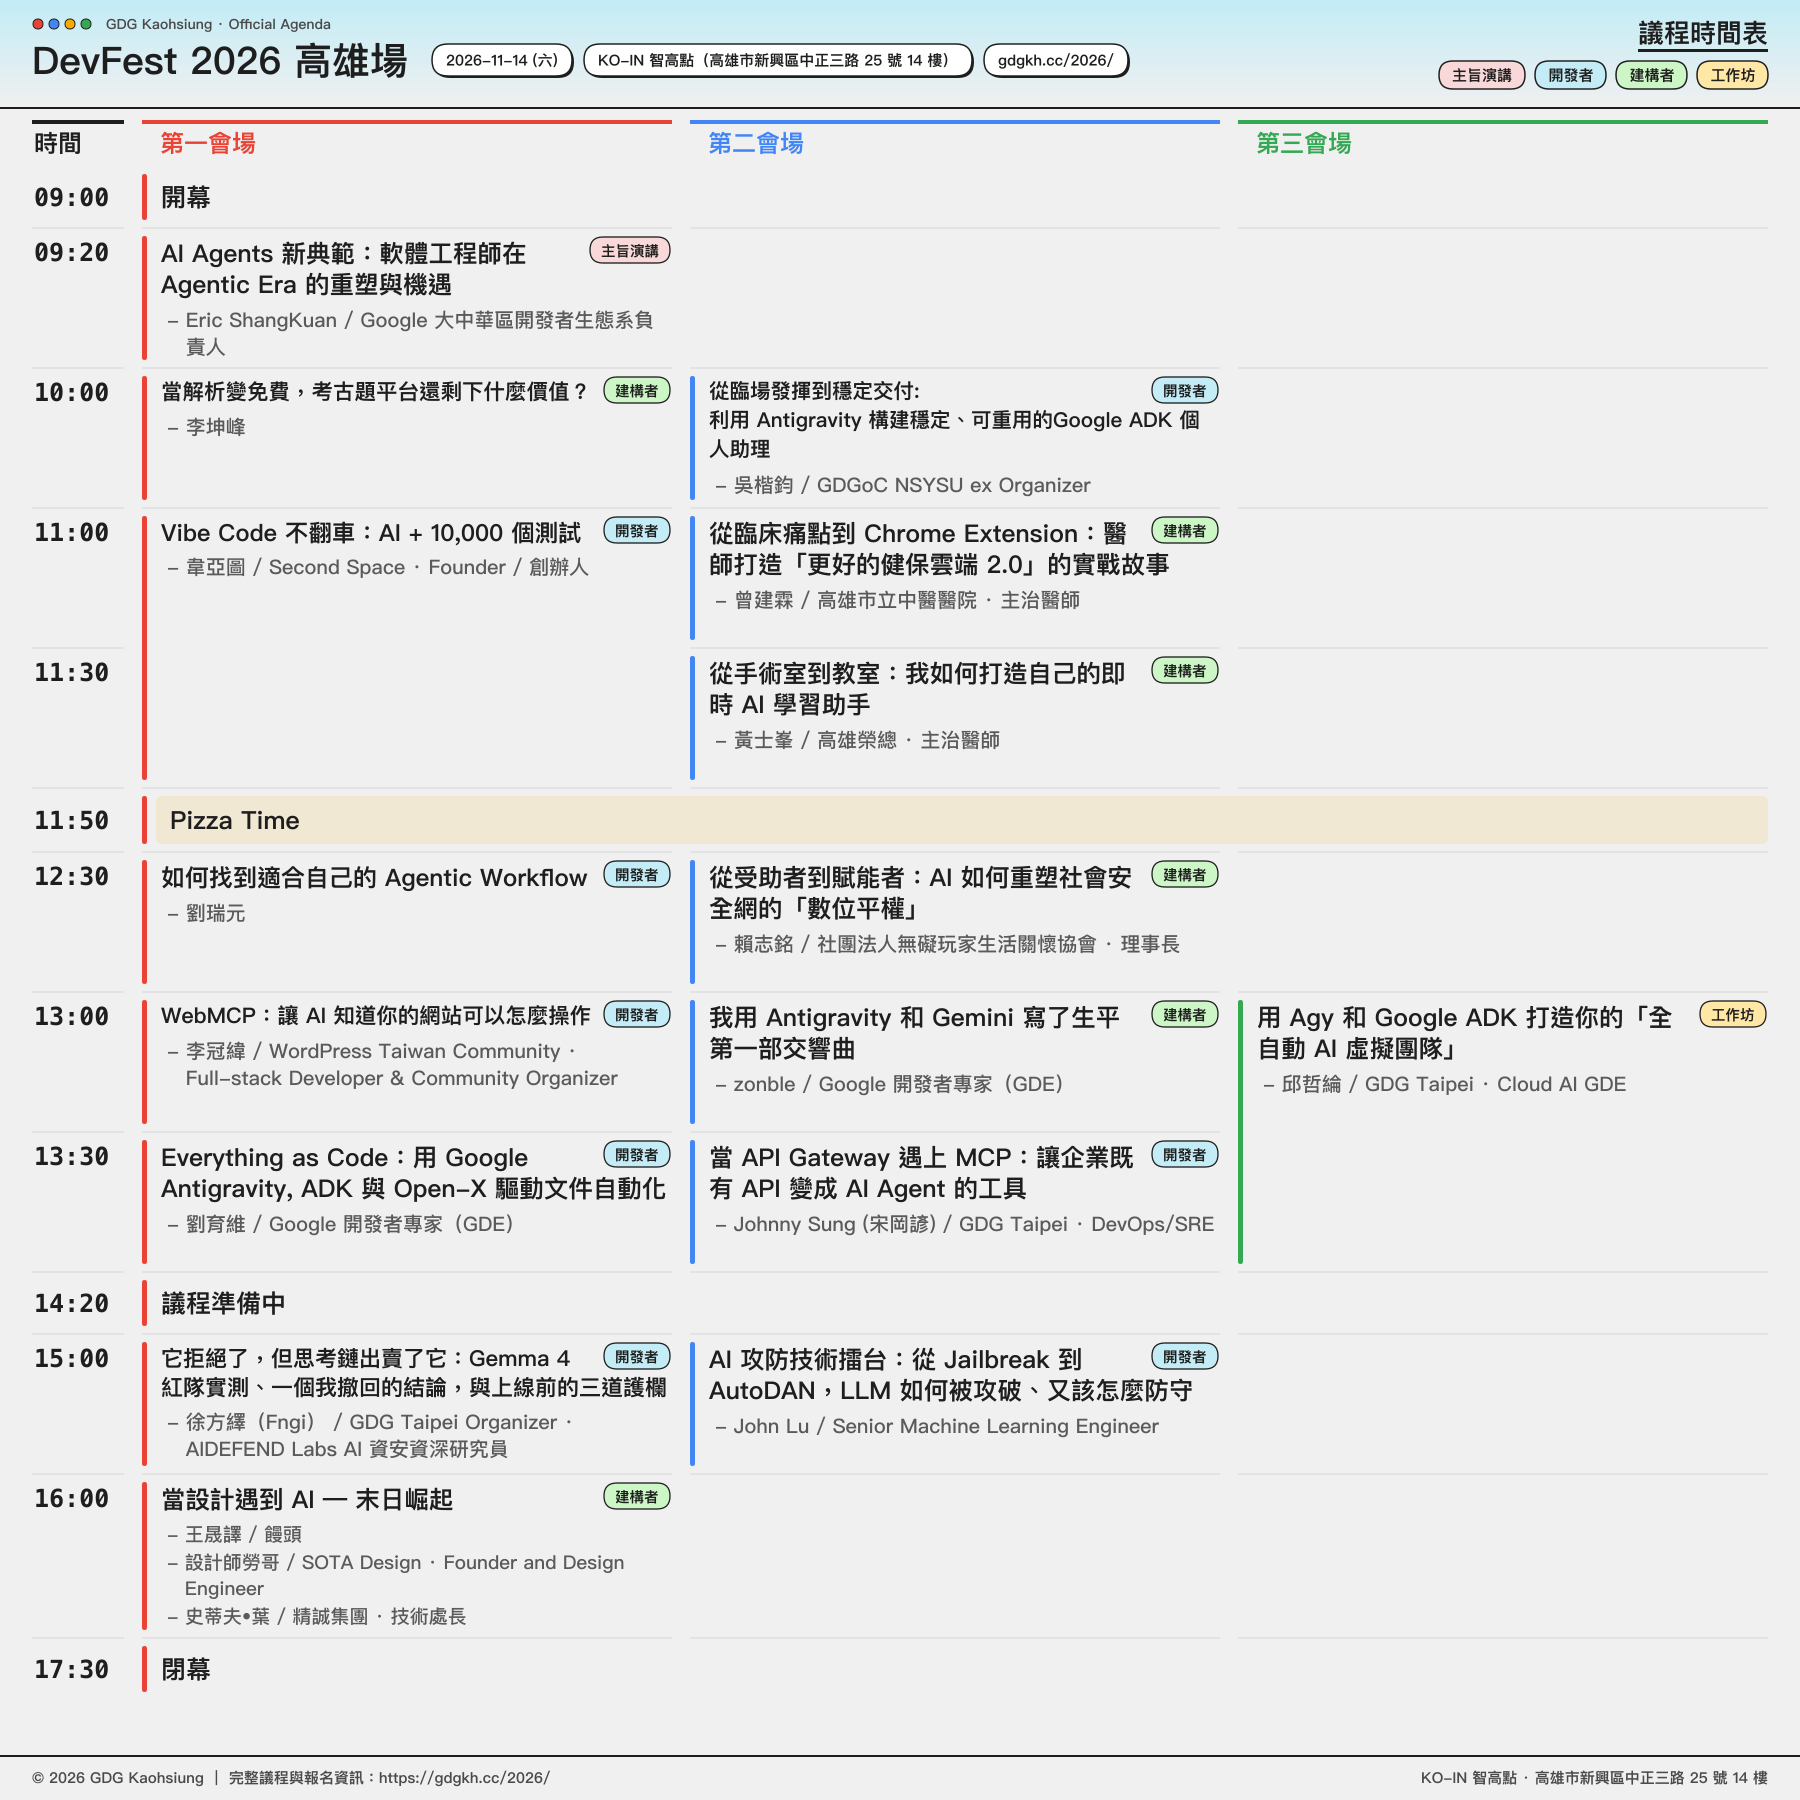
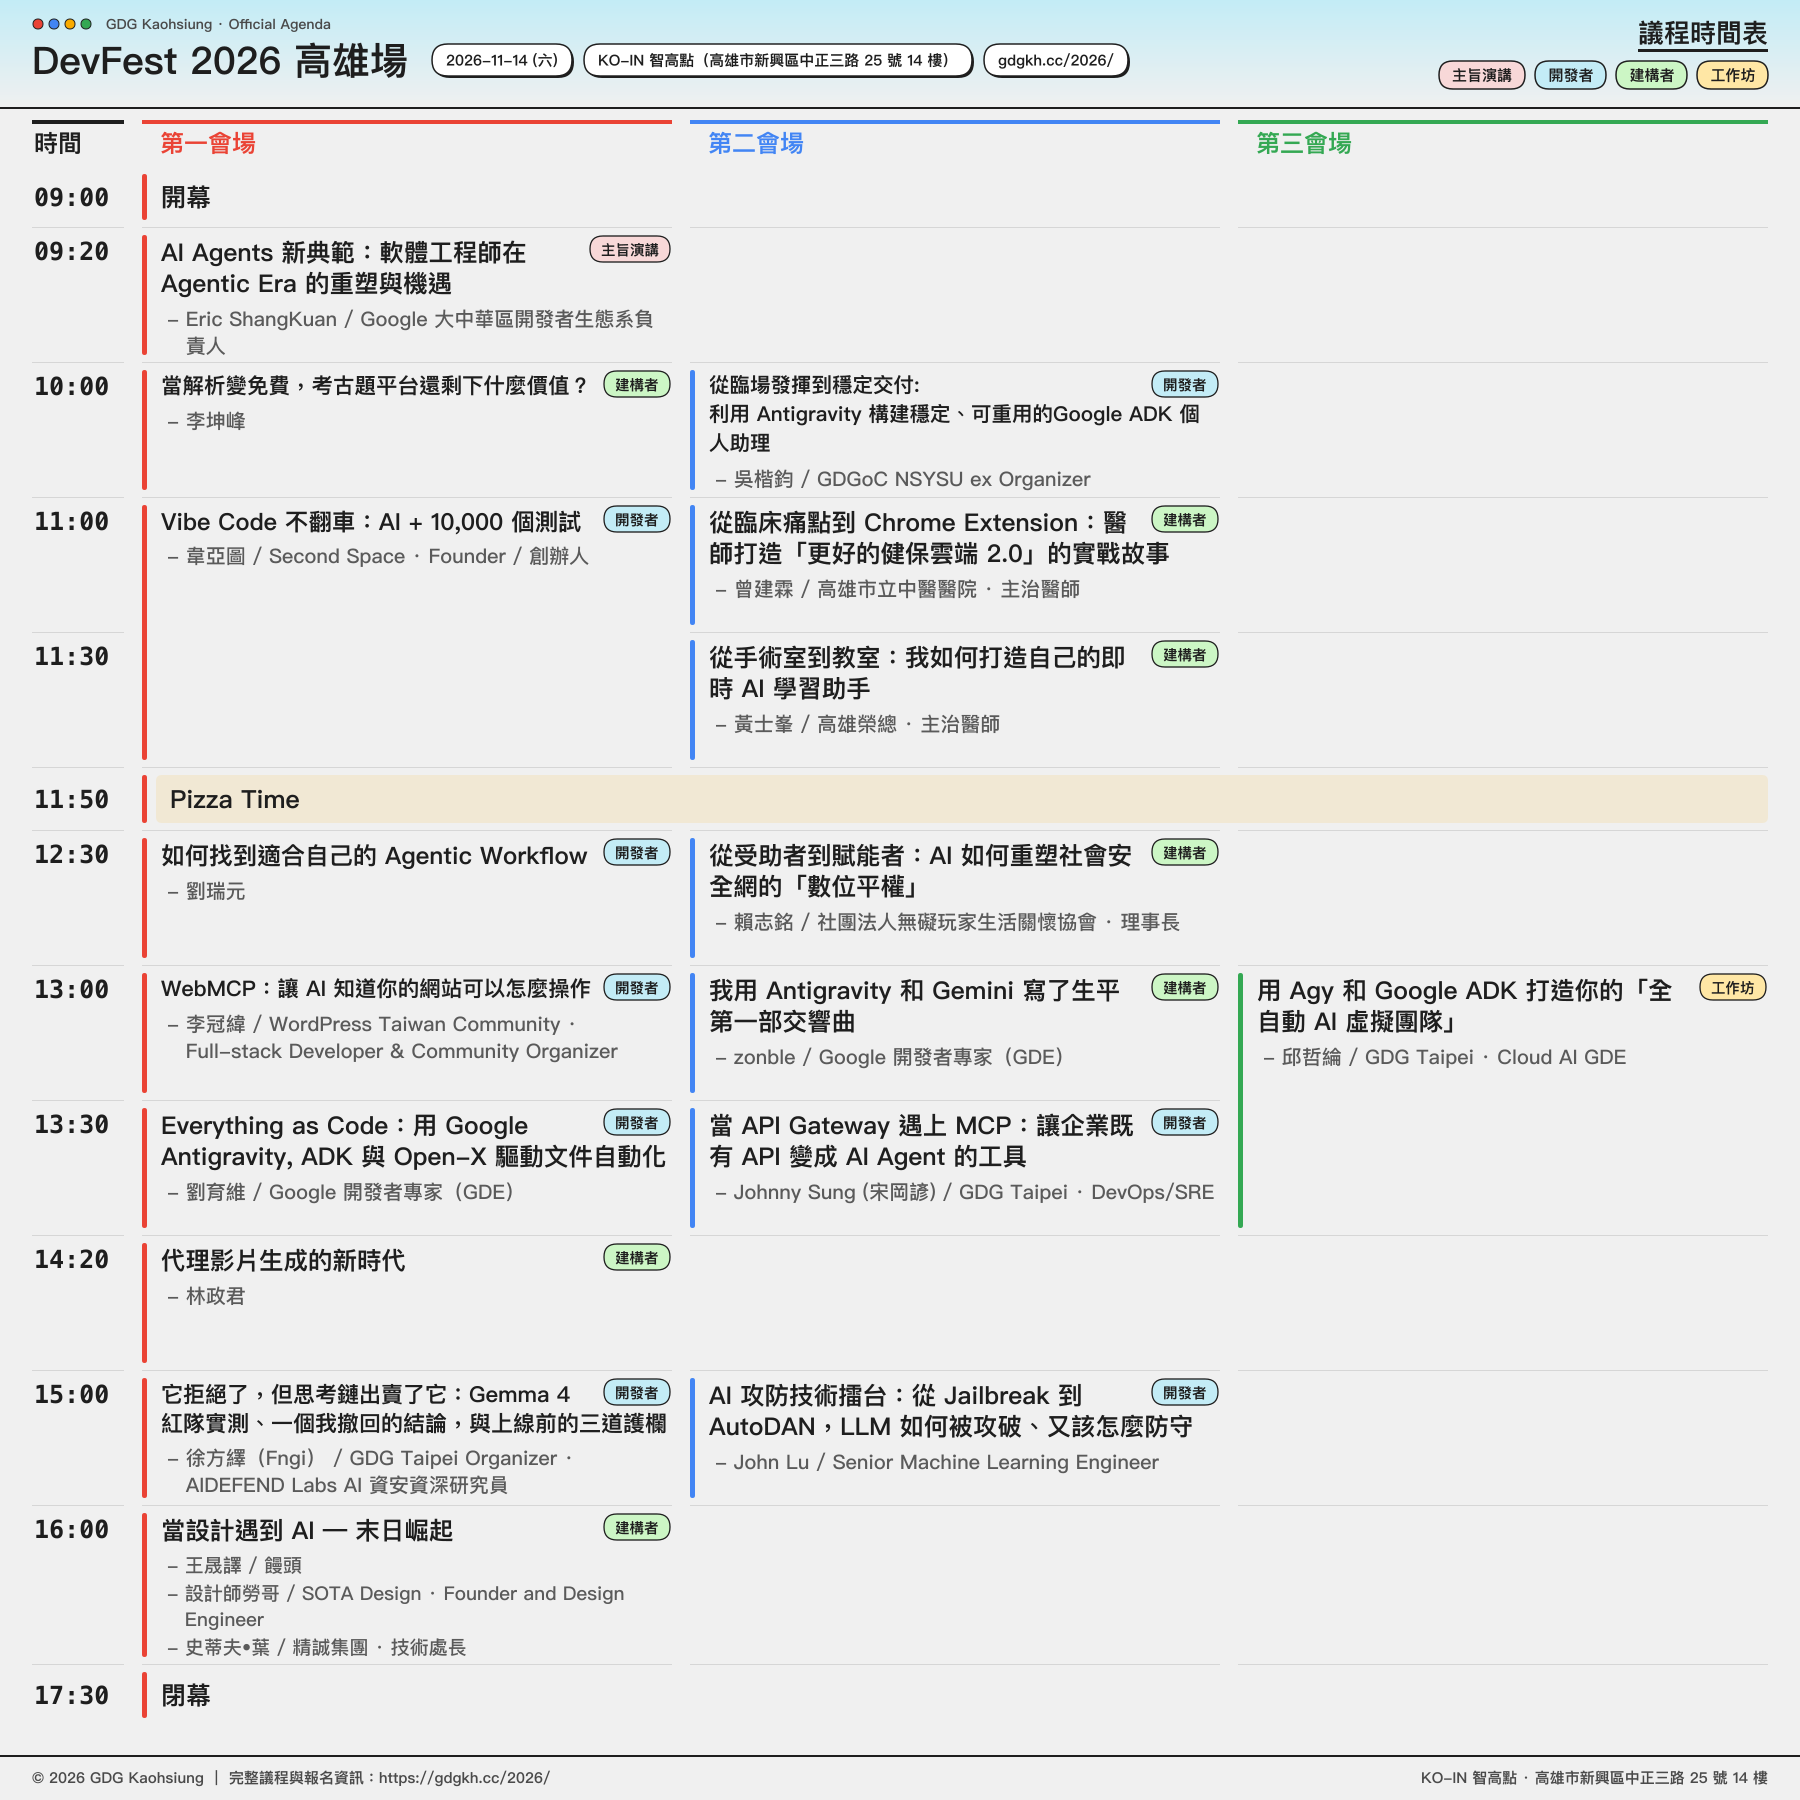
feat(speakers): 新增 2026 講者林政君（Sylph Lin）與議程資料
- 新增講者林政君（Sylph Lin），設定為建構者軌與外地講者
- 更新議程 session_5_3（第一會場 14:20~14:50）為「代理影片生成的新時代」，設定講者、摘要與標籤
- 下載講者照片、優化多尺寸 WebP 並產生專屬靜態分享頁面與 OG 預覽圖
- 更新 1:1 方形社群議程圖（facebook-agenda-square.png）排版配置與自動化測試

Generated-by: Gemini 3.8 Flash (High)

diff --git a/2026/share/speakers/sylph_lin/index.html b/2026/share/speakers/sylph_lin/index.html
@@ -1,0 +1,124 @@
+<!doctype html>
+<html lang="zh-Hant">
+  <head>
+    <meta charset="utf-8" />
+    <meta name="viewport" content="width=device-width, initial-scale=1" />
+    <base href="../../../" />
+    <title>林政君 — DevFest 2026 高雄場</title>
+    <meta name="description" content="Sylph 是一位熱情的新興技術佈道者，專注於探索雲端和 AI 的前沿應用的無限可能，相信透過新興技術的與真實應用的連結，可以協助產業轉型與團隊升級。Sylph…" />
+    <link rel="canonical" href="https://gdgkh.cc/2026/share/speakers/sylph_lin/" />
+    <meta name="version" content="2026.10.28.2" />
+    <meta http-equiv="Cache-Control" content="no-cache, must-revalidate" />
+    <meta name="theme-color" content="" data-gk-token-color="--gk-blue" />
+
+    <!-- Open Graph / Facebook -->
+    <meta property="og:type" content="profile" />
+    <meta property="og:url" content="https://gdgkh.cc/2026/share/speakers/sylph_lin/" />
+    <meta property="og:title" content="林政君 — DevFest 2026 高雄場" />
+    <meta property="og:description" content="Sylph 是一位熱情的新興技術佈道者，專注於探索雲端和 AI 的前沿應用的無限可能，相信透過新興技術的與真實應用的連結，可以協助產業轉型與團隊升級。Sylph…" />
+    <meta property="og:image" content="https://gdgkh.cc/2026/images/og/speakers/sylph_lin.png" />
+    <meta property="og:image:secure_url" content="https://gdgkh.cc/2026/images/og/speakers/sylph_lin.png" />
+    <meta property="og:image:width" content="1200" />
+    <meta property="og:image:height" content="630" />
+    <meta property="og:image:alt" content="林政君 — DevFest 2026 高雄場" />
+    <meta property="og:image:type" content="image/png" />
+    <meta property="og:site_name" content="DevFest 2026 高雄場" />
+    <meta property="og:locale" content="zh_TW" />
+    <meta property="og:locale:alternate" content="en_US" />
+    <meta property="og:locale:alternate" content="ja_JP" />
+    <meta property="article:publisher" content="https://www.facebook.com/GDGKaohsiung" />
+
+    <!-- Twitter Card -->
+    <meta name="twitter:card" content="summary_large_image" />
+    <meta name="twitter:url" content="https://gdgkh.cc/2026/share/speakers/sylph_lin/" />
+    <meta name="twitter:title" content="林政君 — DevFest 2026 高雄場" />
+    <meta name="twitter:description" content="Sylph 是一位熱情的新興技術佈道者，專注於探索雲端和 AI 的前沿應用的無限可能，相信透過新興技術的與真實應用的連結，可以協助產業轉型與團隊升級。Sylph…" />
+    <meta name="twitter:image" content="https://gdgkh.cc/2026/images/og/speakers/sylph_lin.png" />
+    <meta name="twitter:image:alt" content="林政君 — DevFest 2026 高雄場" />
+    <link rel="icon" href="favicon.svg" type="image/svg+xml" />
+    <link rel="preconnect" href="https://fonts.googleapis.com" />
+    <link rel="preconnect" href="https://fonts.gstatic.com" crossorigin />
+    <link
+      rel="stylesheet"
+      href="https://fonts.googleapis.com/css2?family=Google+Sans:wght@500;700&display=swap"
+    />
+    <link rel="stylesheet" href="assets/css/tokens.css" />
+    <link rel="stylesheet" href="assets/css/base.css" />
+    <link rel="stylesheet" href="assets/css/components.css" />
+    <link rel="stylesheet" href="assets/css/layout.css" />
+    <script type="application/ld+json">
+      {"@context":"https://schema.org","@type":"Person","name":"林政君","url":"https://gdgkh.cc/2026/share/speakers/sylph_lin/","image":"https://gdgkh.cc/2026/images/og/speakers/sylph_lin.png","description":"Sylph 是一位熱情的新興技術佈道者，專注於探索雲端和 AI 的前沿應用的無限可能，相信透過新興技術的與真實應用的連結，可以協助產業轉型與團隊升級。Sylph 在Google協助大中華區的開發者與合作夥伴建立可複製的AI解決方案，協助銜接AI解決方案落地並創造商業價值。 Sylph 擅長AI解決方案、雲端技術架構規劃、產品規劃與管理、技術團隊管理等相關工作，擁有豐富的跨國團隊管理與國際專案實務經…","subjectOf":{"@type":"Event","name":"DevFest 2026 高雄場"}}
+    </script>
+    <script>
+      window.__GK_AUTO_OPEN = { type: 'speakers', id: 'sylph_lin' };
+    </script>
+    <script type="module" src="assets/js/main.js"></script>
+  </head>
+  <body class="gk-loading">
+    <a href="#gk-main" class="gk-skip-link">跳到主要內容</a>
+
+    <header id="gk-nav" role="banner"></header>
+
+    <section id="gk-hero" class="gk-hero">
+      <div class="gk-hero-inner">
+        <h1 class="gk-hero-title" id="gk-hero-title"></h1>
+        <p class="gk-hero-date" id="gk-hero-date"></p>
+        <p class="gk-hero-venue" id="gk-hero-venue"></p>
+        <div class="gk-hero-action-group">
+          <div class="gk-hero-actions" id="gk-hero-actions"></div>
+          <div class="gk-hero-countdown" id="gk-hero-countdown" aria-live="polite"></div>
+        </div>
+      </div>
+    </section>
+
+    <main id="gk-main">
+      <section id="section-about" class="gk-section" data-section-id="about">
+        <h2 class="gk-section-title" id="section-about-title"></h2>
+        <div id="gk-about"></div>
+        <div id="gk-sponsor-marquee"></div>
+        <div id="gk-home-cards"></div>
+      </section>
+
+      <section id="section-speakers" class="gk-section" data-section-id="speakers">
+        <h2 class="gk-section-title" id="section-speakers-title"></h2>
+        <div id="gk-speakers"></div>
+      </section>
+
+      <section id="section-agenda" class="gk-section" data-section-id="agenda">
+        <h2 class="gk-section-title" id="section-agenda-title"></h2>
+        <div id="gk-agenda"></div>
+      </section>
+
+      <section id="section-virtual" class="gk-section" data-section-id="virtual">
+        <h2 class="gk-section-title" id="section-virtual-title"></h2>
+        <div id="gk-virtual"></div>
+      </section>
+
+      <section id="section-staff" class="gk-section" data-section-id="staff">
+        <h2 class="gk-section-title" id="section-staff-title"></h2>
+        <div id="gk-staff"></div>
+      </section>
+
+      <section id="section-thanks" class="gk-section" data-section-id="thanks">
+        <h2 class="gk-section-title" id="section-thanks-title"></h2>
+        <div id="gk-thanks"></div>
+      </section>
+
+      <section id="section-booths" class="gk-section" data-section-id="booths">
+        <h2 class="gk-section-title" id="section-booths-title"></h2>
+        <div id="gk-booths"></div>
+      </section>
+    </main>
+
+    <footer id="gk-footer" role="contentinfo"></footer>
+
+    <div id="gk-modal-root"></div>
+
+    <noscript>
+      <article class="gk-share-fallback"><h1>林政君</h1><img src="https://gdgkh.cc/2026/images/speakers/sylph_lin.jpg" alt="林政君" width="480" height="480" loading="lazy" /><div class="gk-share-bio"><p>Sylph 是一位熱情的新興技術佈道者，專注於探索雲端和 AI 的前沿應用的無限可能，相信透過新興技術的與真實應用的連結，可以協助產業轉型與團隊升級。Sylph 在Google協助大中華區的開發者與合作夥伴建立可複製的AI解決方案，協助銜接AI解決方案落地並創造商業價值。</p><p>Sylph 擅長AI解決方案、雲端技術架構規劃、產品規劃與管理、技術團隊管理等相關工作，擁有豐富的跨國團隊管理與國際專案實務經驗。</p></div><section class="gk-share-session"><h2>議程：代理影片生成的新時代</h2><p>在寫程式的時候，我們經歷了自主撰寫到Coding Agent的過程。影片生成現在也在經歷一樣的路徑，這個講題會介紹透過Antigravity來當作影片生成的Agent，讓你跳脫出繁瑣的工作，聚焦在導演的角度來處理影片</p></section><ul class="gk-share-links"><li><a href="https://www.linkedin.com/in/sylphlin/" rel="noopener nofollow">LinkedIn</a></li></ul><p><a href="https://gdgkh.cc/2026/">回到首頁</a></p></article>
+      <p class="gk-noscript">
+        本網站需要 JavaScript 才能正常運作，請開啟瀏覽器的 JavaScript 功能。
+      </p>
+    </noscript>
+  </body>
+</html>
